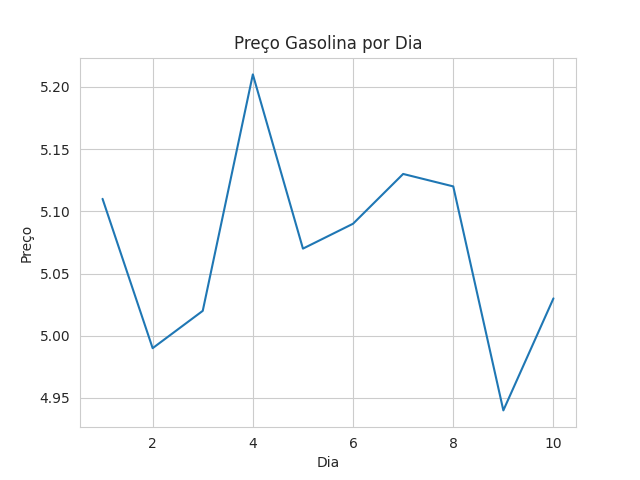
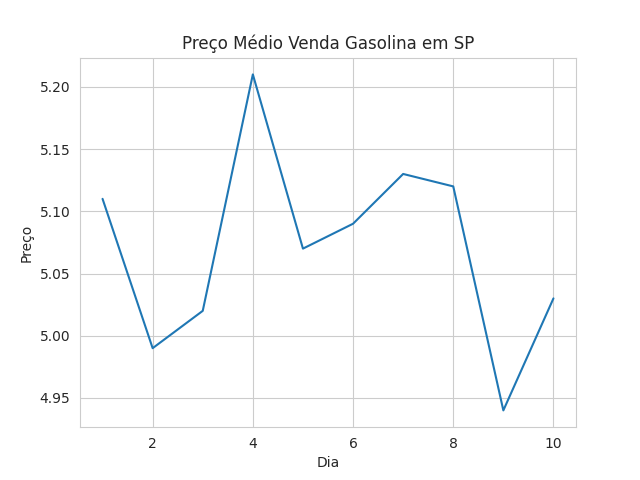
arquivos gasolina.csv gasolina.png gasolina.py alterados em develop

Changed region(s): [[0.2812, 0.0625, 0.75, 0.125]]

diff --git a/gasolina.py b/gasolina.py
@@ -8,7 +8,7 @@ df = pd.read_csv('gasolina.csv', sep=',')
 with sns.axes_style('whitegrid'):
 
   grafico = sns.lineplot(data=df, x="dia", y="venda", palette="pastel")
-  grafico.set(title='Preço Gasolina por Dia', xlabel='Dia', ylabel='Preço');
+  grafico.set(title='Preço Médio Venda Gasolina em SP', xlabel='Dia', ylabel='Preço');
 
 plt.savefig('gasolina.png')
 
